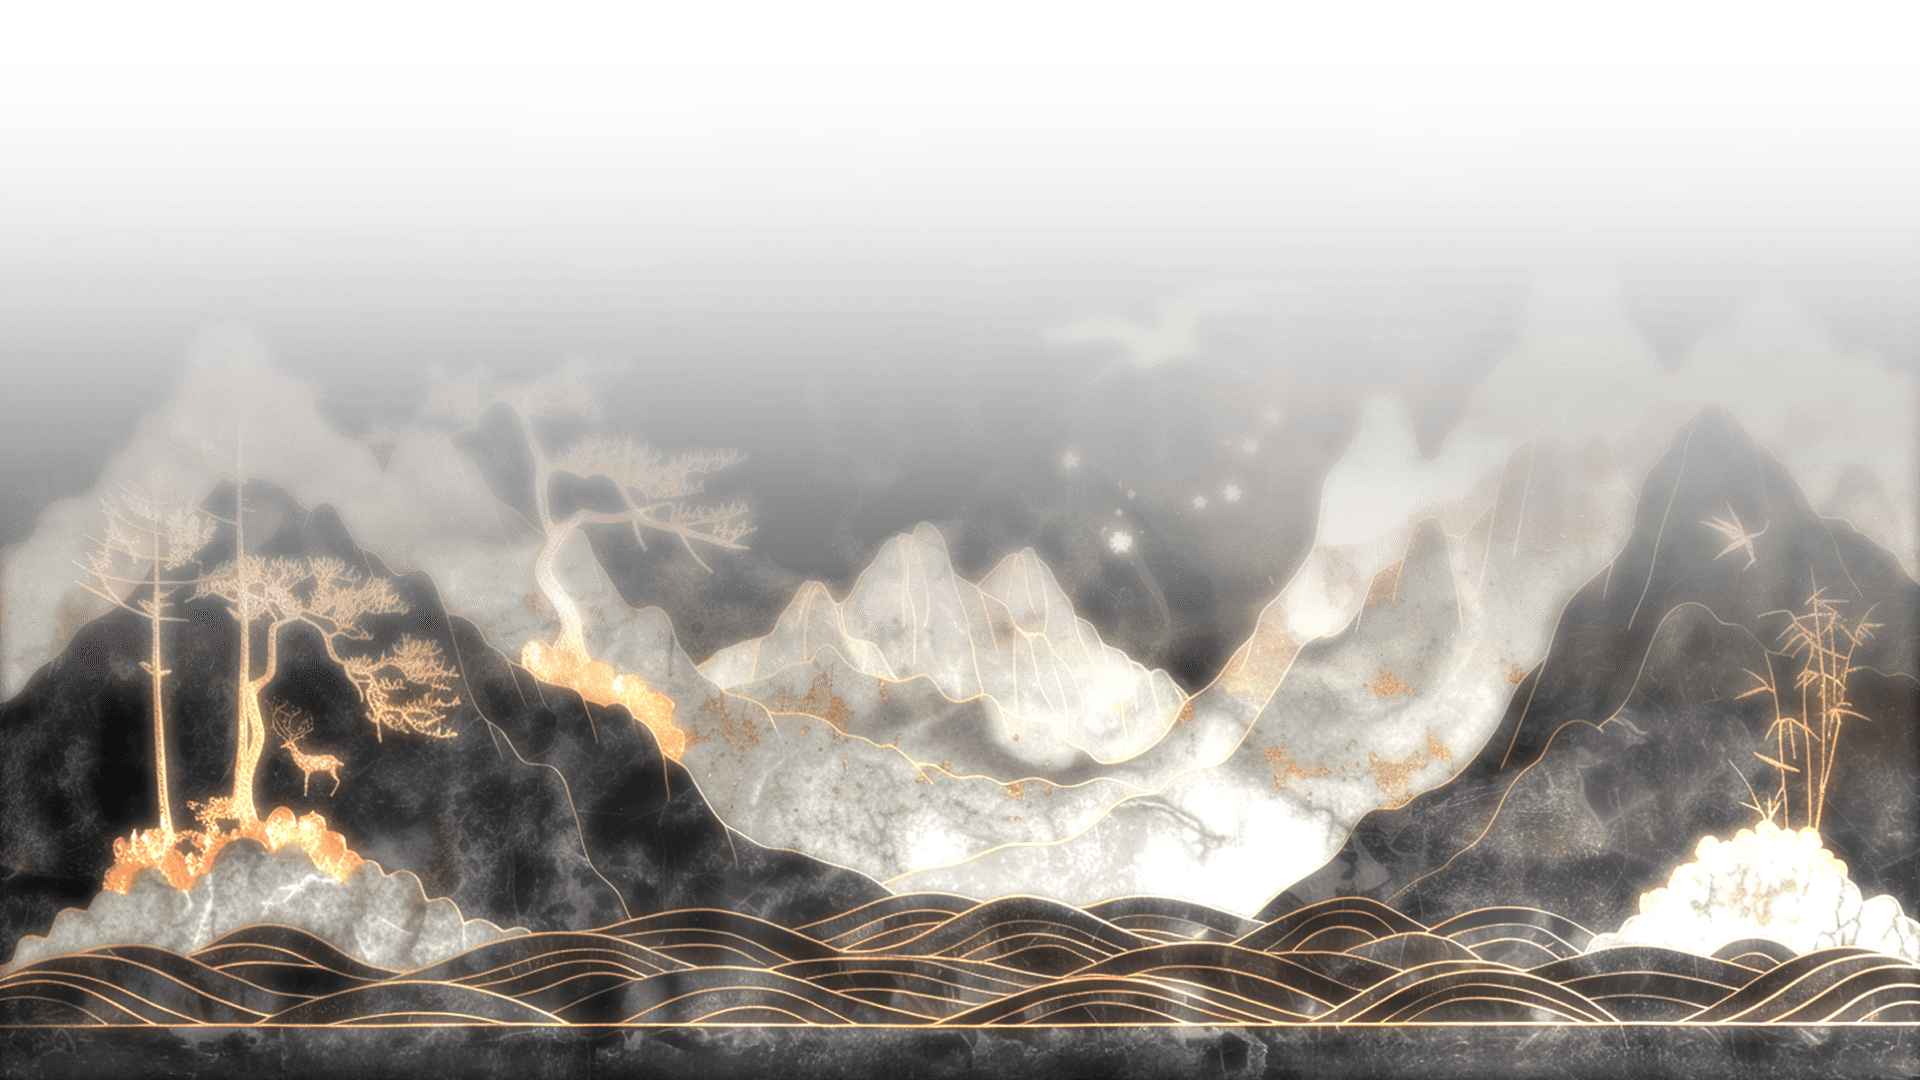
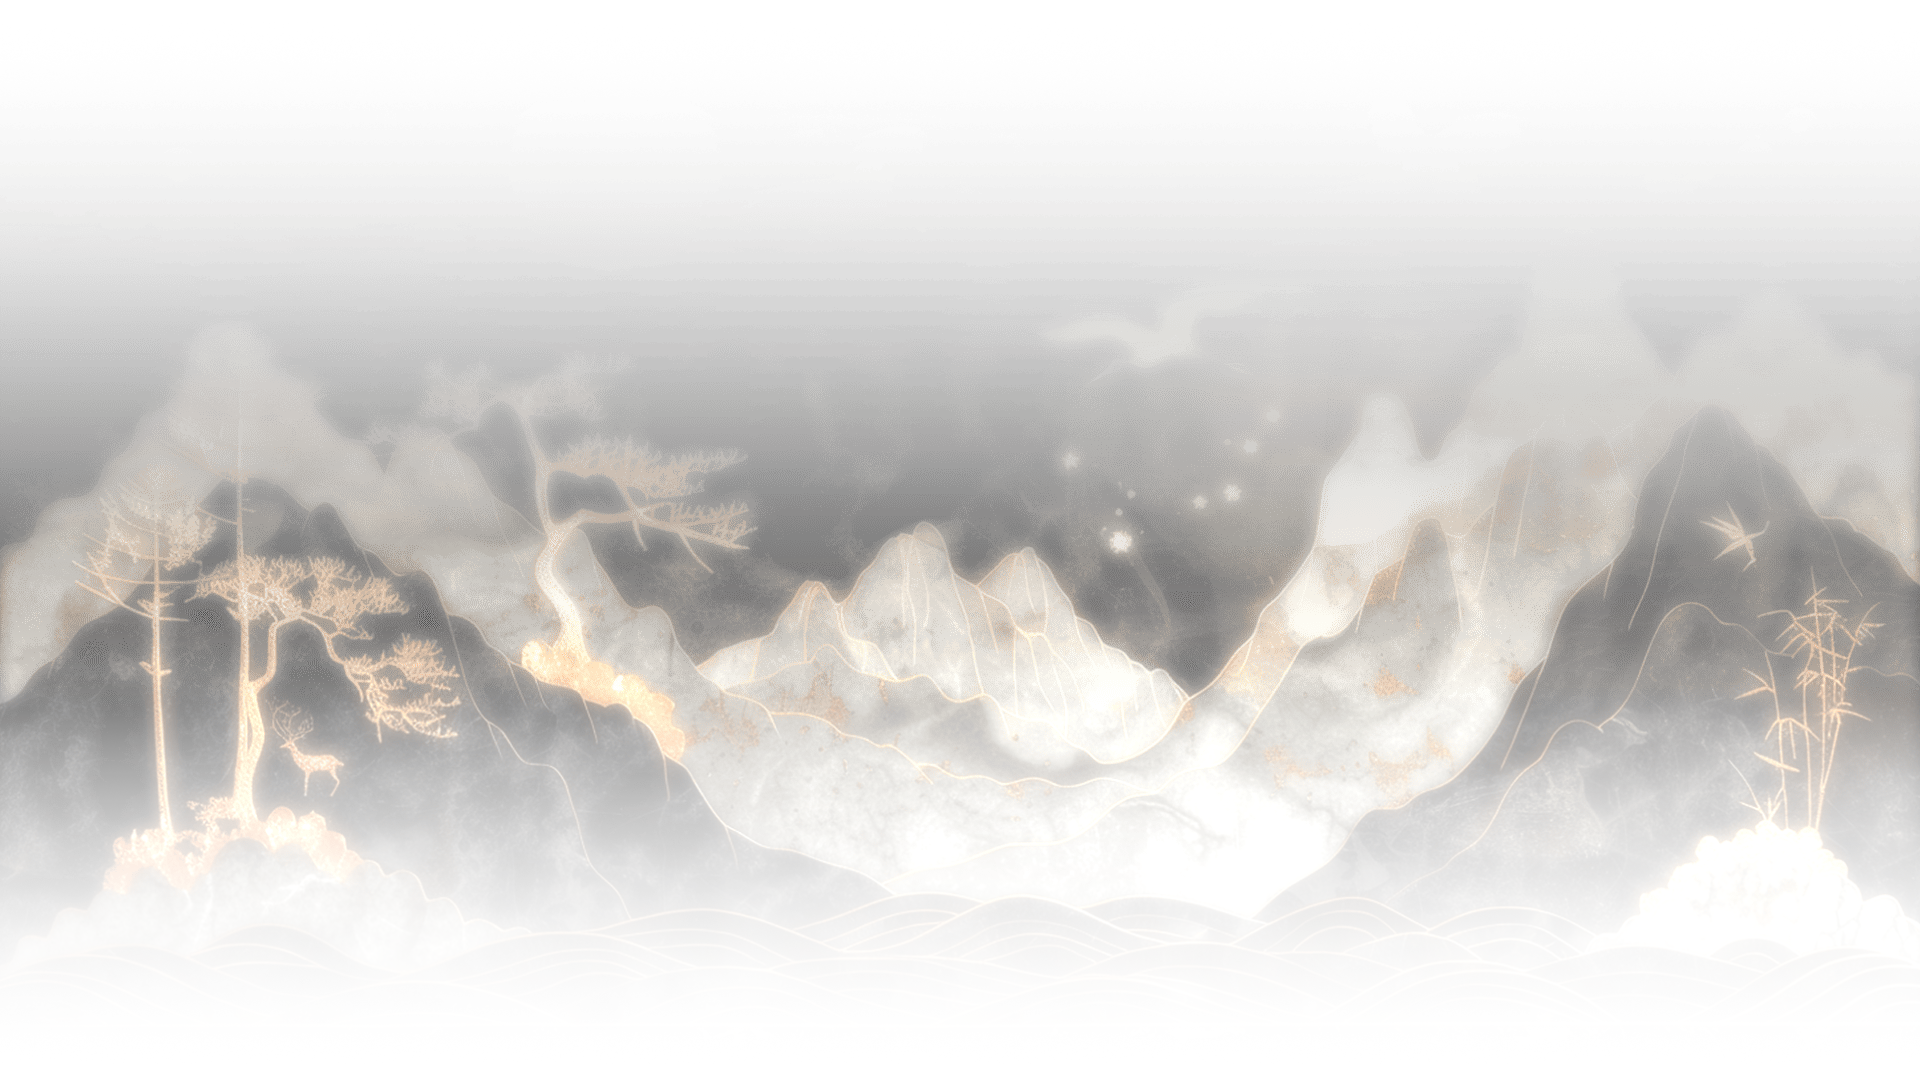
20251103 reward 수정

diff --git a/pages/reward/reward.html b/pages/reward/reward.html
@@ -260,6 +260,7 @@
                     <small>Spend $300 more by September 30, 2026 to reach the Red tier</small>
                 </div>
             </section><!-- //.vip_tiers -->
+
             <section class="how_it_work">
                 <figure class="vid">
                     <video id="bgVideo" src="../../asset/video/reward/reward_vid.mp4" autoplay muted loop
@@ -299,36 +300,36 @@
                 <div class="artlcle_g inner">
                     <div class="a_top ">
                         <div class="box_g">
-                            <a href="#" class="box1 box" data-aos="flip-down">
+                            <a href="#" class="box1 box" data-aos="flip-down" data-aos-delay="1000">
                                 <p>Free Hanbang Serum Discovery Kit</p>
                                 <div class="bottom"><span class="arrow">Get Redeem</span></div>
                             </a>
-                            <a href="#" class="box2 box" data-aos="flip-down" data-aos-delay="100">
+                            <a href="#" class="box2 box" data-aos="flip-down" data-aos-delay="1100">
                                 <p>Free Centella Asiatica Calming Mask (10 Sheets)</p>
                                 <div class="bottom"><span class="arrow dis">40 / 380 Point</span></div>
                             </a>
                         </div>
                         <div class="box_g">
-                            <a href="#" class="box3 box" data-aos="flip-down" data-aos-delay="200">
+                            <a href="#" class="box3 box" data-aos="flip-down" data-aos-delay="1200">
                                 <p>Free Hanbang Serum Discovery Kit</p>
                                 <div class="bottom"><span class="arrow dis">40 / 315 Point</span></div>
                             </a>
-                            <a href="#" class="box4 box" data-aos="flip-down" data-aos-delay="300">
+                            <a href="#" class="box4 box" data-aos="flip-down" data-aos-delay="1300">
                                 <p>Free Apricot Blossom Peeling Gel</p>
                                 <div class="bottom"><span class="arrow">Get Redeem</span></div>
                             </a>
                         </div>
                     </div>
                     <div class="a_bottom">
-                        <a href="#" class="box5 box" data-aos="flip-down" data-aos-delay="400">
+                        <a href="#" class="box5 box" data-aos="flip-down" data-aos-delay="1400">
                             <p>Convert Your Points</p>
                             <div class="bottom"><span class="arrow">Get Redeem</span></div>
                         </a>
-                        <a href="#" class="box6 box" data-aos="flip-down" data-aos-delay="500">
+                        <a href="#" class="box6 box" data-aos="flip-down" data-aos-delay="1500">
                             <p>Redeem for 15% off</p>
                             <div class="bottom"><span class="arrow">Get Redeem</span></div>
                         </a>
-                        <a href="#" class="box7 box" data-aos="flip-down" data-aos-delay="600">
+                        <a href="#" class="box7 box" data-aos="flip-down" data-aos-delay="1600">
                             <p>Redeem for $10 off</p>
                             <div class="bottom"><span class="arrow">Get Redeem</span></div>
                         </a>
@@ -346,29 +347,29 @@
                 </div>
                 <div class="artlcle_g inner">
                     <div class="a_top2">
-                        <a href="#" class="box1 box" data-aos="flip-down">
+                        <a href="#" class="box1 box" data-aos="flip-down" data-aos-delay="1000">
                             <p>Join Program</p>
                             <span>50 point</span>
                             <div class="bottom"><span class="arrow dis">Completed</span></div>
                         </a>
-                        <a href="#" class="box2 box" data-aos="flip-down" data-aos-delay="100">
+                        <a href="#" class="box2 box" data-aos="flip-down" data-aos-delay="1100">
                             <p>Place an Order</p>
                             <span>1 Point for every $1 spent</span>
                             <div class="bottom"><span class="arrow"></span></div>
                         </a>
-                        <a href="#" class="box3 box" data-aos="flip-down" data-aos-delay="200">
+                        <a href="#" class="box3 box" data-aos="flip-down" data-aos-delay="1200">
                             <p>Write a Review</p>
                             <span>Up to 350 Points</span>
                             <div class="bottom"><span class="arrow"></span></div>
                         </a>
                     </div>
                     <div class="a_center ">
-                        <a href="#" class="box4 box" data-aos="flip-down" data-aos-delay="300">
+                        <a href="#" class="box4 box" data-aos="flip-down" data-aos-delay="1300">
                             <p>Refer a Friend</p>
                             <span>150 point</span>
                             <div class="bottom"><span class="arrow"></span></div>
                         </a>
-                        <a href="#" class="box5 box" data-aos="flip-down" data-aos-delay="400">
+                        <a href="#" class="box5 box" data-aos="flip-down" data-aos-delay="1400">
                             <p>Follow on Instagram</p>
                             <span>25 point</span>
                             <div class="bottom"><span class="arrow"></span>
@@ -376,12 +377,12 @@
                         </a>
                     </div>
                     <div class="a_bottom ">
-                        <a href="#" class="box6 box" data-aos="flip-down" data-aos-delay="500">
+                        <a href="#" class="box6 box" data-aos="flip-down" data-aos-delay="1500">
                             <p>Follow on TikTok</p>
                             <span>25 point</span>
                             <div class="bottom"><span class="arrow"></span></div>
                         </a>
-                        <a href="#" class="box7 box" data-aos="flip-down" data-aos-delay="600">
+                        <a href="#" class="box7 box" data-aos="flip-down" data-aos-delay="1600">
                             <p>Birthday Points</p>
                             <span>150 points on your birthday</span>
                             <div class="bottom"><span class="arrow">Set Date</span></div>
@@ -389,7 +390,7 @@
                     </div>
                 </div>
             </section>
-            <section class="friend">
+                        <section class="friend">
                 <h2>Give a friend 10% off. Get 150 points.</h2>
                 <small>Refer friends and they’ll get 10% off. Plus, you get 150 bonus points.</small>
                 <div class="btn_g">

diff --git a/pages/reward/reward_style.css b/pages/reward/reward_style.css
@@ -139,16 +139,20 @@ main .inner {
 }
 
 .list {
-    margin: 120px auto;
+    margin: auto;
     width: 76vw;
     text-align: center;
     background-color: var(--img_bg);
     border: 40px solid transparent;
     border-image: url('../../asset/img/reward/corner.png') 40 fill stretch;
+
 }
 
-.vip_tiers .list {
-    padding: 40px 0;
+.vip_tiers {
+        background-image:       
+        linear-gradient(90deg, #FEFEFE 0%, #FDFDFD 49.52%, #F7F7F7 100%);
+padding: 80px 0 160px 0;
+
 }
 
 .vip_tiers .list .horizontal-scroll-container>li:nth-child(1) b,
@@ -320,7 +324,8 @@ main .inner {
 }
 
 .redeem_for_products,
-.ways_to_earn {
+.ways_to_earn,
+.FAQ {
     width: 100%;
     color: var(--white_f0);
     display: flex;
@@ -374,7 +379,8 @@ main .inner {
 }
 
 .redeem_for_products .line,
-.ways_to_earn .line {
+.ways_to_earn .line,
+.FAQ .line {
     filter: invert(100%) sepia(0%) saturate(0%) hue-rotate(0deg) brightness(100%) contrast(100%);
 }
 
@@ -450,8 +456,9 @@ main .inner {
 
 .redeem_for_products {
     position: relative;
-    background: url('../../asset/img/reward/Redeem_bg.png') center/cover no-repeat;
+    /* background: url('../../asset/img/reward/Redeem_bg.png') center/cover no-repeat; */
     overflow: hidden;
+        background-color: #000000;
 }
 
 .redeem_for_products::before {
@@ -475,8 +482,9 @@ main .inner {
 
 .ways_to_earn {
     position: relative;
-    background: url('../../asset/img/reward/Earn_bg.png') center/cover no-repeat;
+    /* background: url('../../asset/img/reward/Earn_bg.png') center/cover no-repeat; */
     overflow: hidden;
+        background-color: #000000;
 }
 
 .ways_to_earn::before {
@@ -619,18 +627,20 @@ main .inner {
     width: 100%;
     height: 400px;
     /* background-color: var(--grey_c7); */
-    color: var(--bg_footer);
+    color: var(--white_f0);
     text-align: center;
     display: flex;
     justify-content: center;
     align-items: center;
     gap: 20px;
     flex-direction: column;
-    background-image: url('../../asset/img/reward/reward_banner.png');
+
+    background-color: var(--bg_footer);
+    /* background-image: url('../../asset/img/reward/reward_banner.png'); */
     background-size: cover;
     background-repeat: no-repeat;
     background-position: center center;
-    border-bottom: 1px solid var(--grey_de);
+    /* border-bottom: 1px solid var(--grey_de); */
 }
 
 .friend h2 {
@@ -643,31 +653,36 @@ main .inner {
 .FAQ {
     width: 100%;
     padding: 160px 0;
-    background-image: url(../../asset/img/brandstory/image-6890.png),
-        linear-gradient(90deg, #FEFEFE 0%, #FDFDFD 49.52%, #F7F7F7 100%);
+    /* background-image:
+    url(../../asset/img/brandstory/image-6890.png); */
+        background: url('../../asset/img/reward/Earn_bg_blur.png') center/cover no-repeat;
     background-position: left bottom;
     background-attachment: fixed;
     background-repeat: no-repeat;
     background-size: 100% auto;
-    background-color: #f8f8f8;
+    background-color: #000000;
 }
+.FAQ::after{
 
+
+}
 .FAQ ul {
     list-style: none;
     padding: 20px 40px 60px 40px;
     margin: auto;
+    color: var(--white_f0);
 }
 
 .FAQ ul li {
-    border-bottom: 1px solid var(--txt_sub_44);
+    border-bottom: 1px solid var(--bg_footer);
 }
 
 .accordion-content span {
-    color: var(--txt_sub_44);
+    color: var(--grey_aa);
 }
 
 .accordion-list {
-    background: rgba(255, 255, 255, 0.8);
+    background: rgba(0, 0, 0, 0.8);
     backdrop-filter: blur(10px);
 }
 
